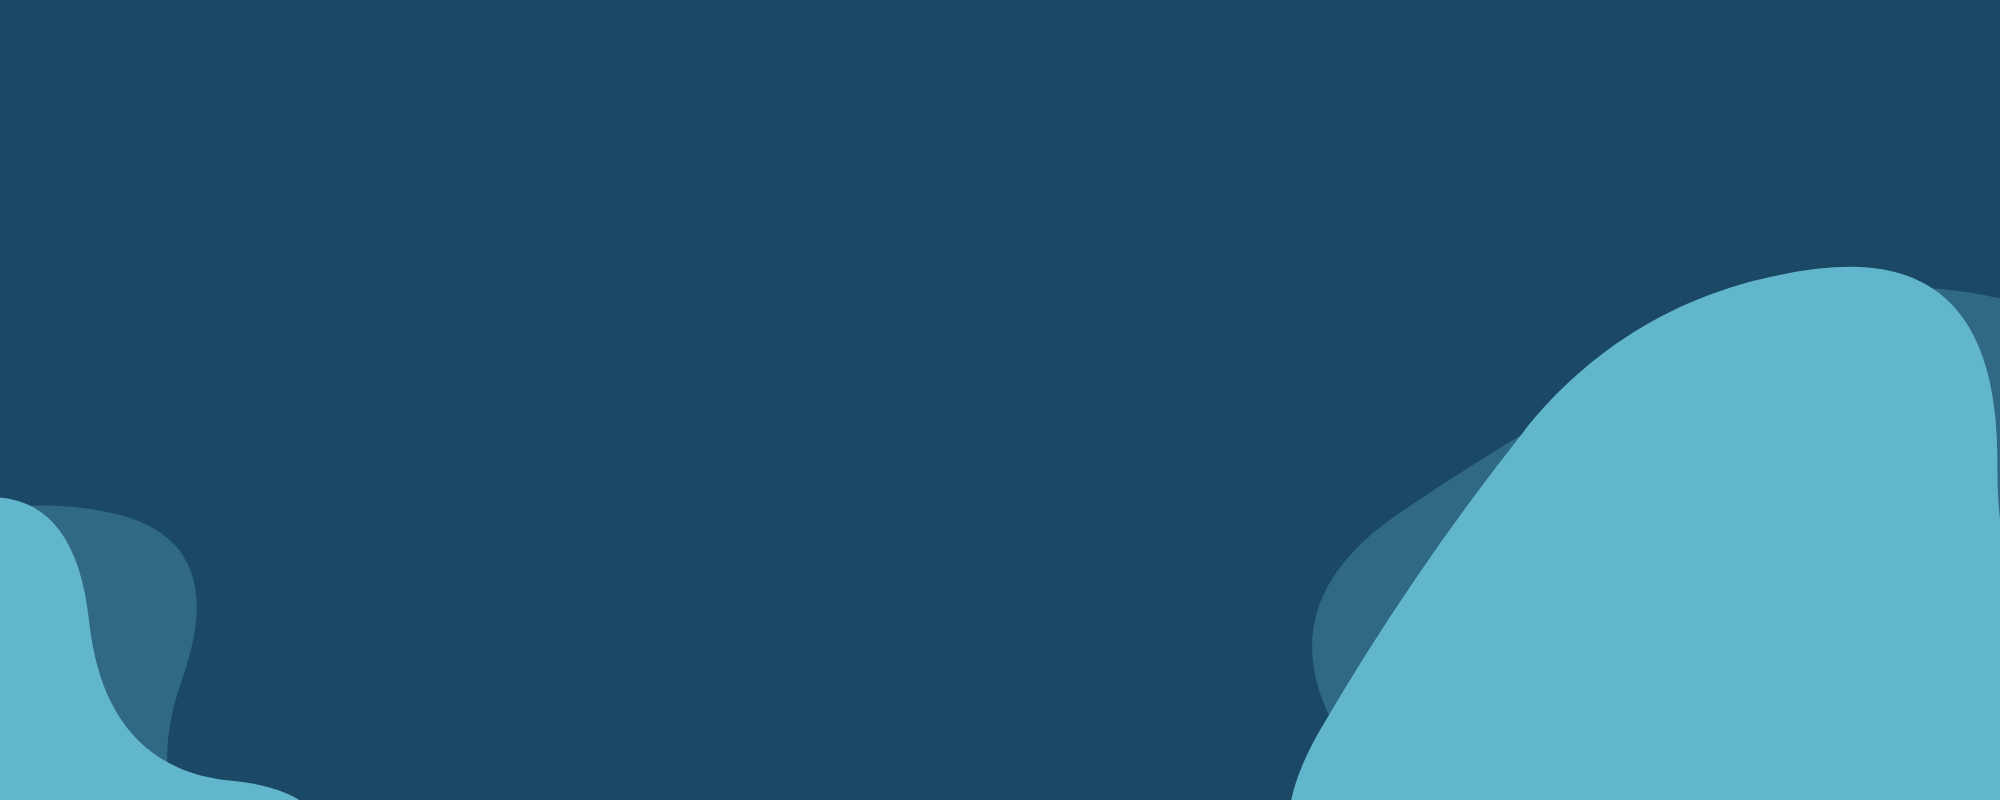
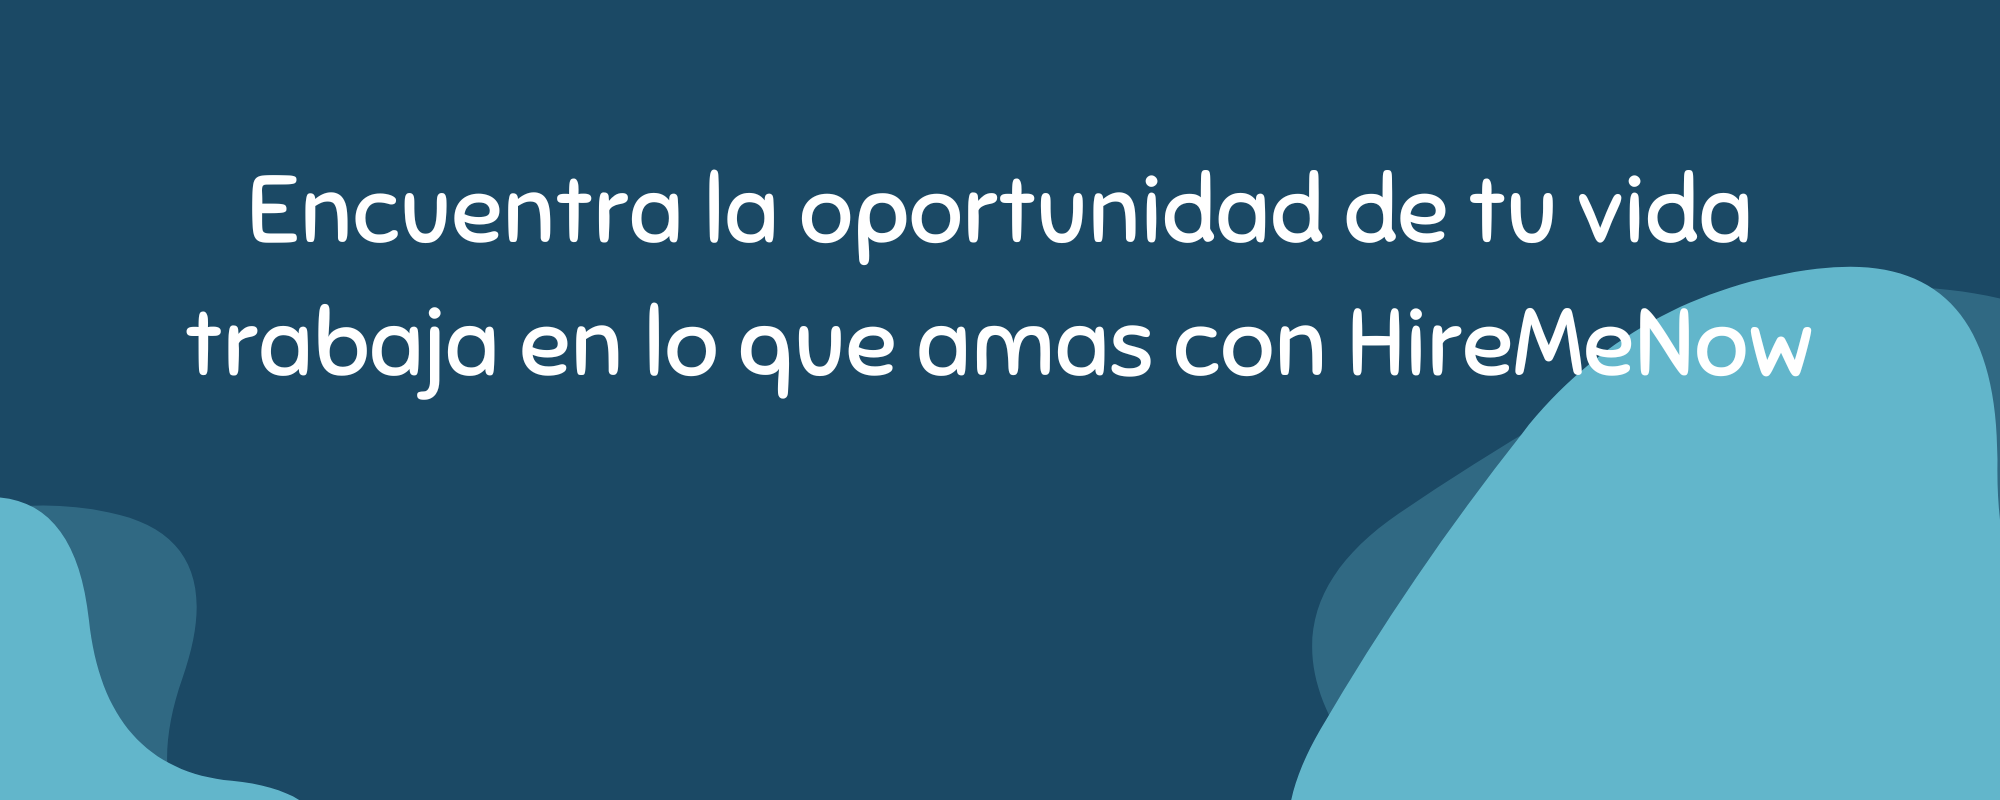
Changes

Changed region(s): [[0.124, 0.2188, 0.899, 0.3125], [0.093, 0.375, 0.93, 0.5]]

diff --git a/src/Views/Home.jsx b/src/Views/Home.jsx
@@ -17,7 +17,7 @@ function Home({ utils: { changeScreen, buttonActive } }) {
         <div>
             <div className="mx-0">
                 <img
-                    src="/home.png"
+                    src="/home2.png"
                     className="img-fluid"
                     style={{
                         width: "100vw",
@@ -31,7 +31,7 @@ function Home({ utils: { changeScreen, buttonActive } }) {
                 <div className="bg-white container-fluid border border-top-0">
                     <div className="row">
                         <div className="col-3">
-                            <img src="/logo.png" className="w-75 py-3" />
+                            <img src="/logo.png" className="w-75 py-3" style={{cursor:"pointer"}}/>
                         </div>
                         <div className="col-9 pt-3">
                             <div className="d-flex justify-content-end align-items-center">
@@ -75,8 +75,8 @@ function Home({ utils: { changeScreen, buttonActive } }) {
                 className="container card d-flex justify-content-center align-items-center p-4 border-0"
                 style={
                     searchBar == 0
-                        ? { marginTop: "25vh", backgroundColor: "#ffff" }
-                        : { marginTop: "25vh", backgroundColor: "#1B4965" }
+                        ? { marginTop: "38vh", backgroundColor: "#ffff" }
+                        : { marginTop: "38vh", backgroundColor: "#1B4965" }
                 }
             >
                 <div
@@ -85,11 +85,13 @@ function Home({ utils: { changeScreen, buttonActive } }) {
                         position: "absolute",
                         backgroundColor: "#f6f7f8",
                         paddingTop: "13rem",
-                        width:"90vw",
+                        width: "90vw",
                         zIndex: "-1",
-                        boxShadow:"0 9px 46px 0 9px 46px rgb(47 54 57 / 5%), 0 18px 38px rgb(47 54 57 / 6%), 0 11px 15px rgb(47 54 57 / 7%)"
+                        boxShadow:
+                            "0 9px 46px 0 9px 46px rgb(47 54 57 / 5%), 0 18px 38px rgb(47 54 57 / 6%), 0 11px 15px rgb(47 54 57 / 7%)",
                     }}
                 ></div>
+                
                 <button
                     className="btn btn-light border-0"
                     style={{
@@ -183,7 +185,7 @@ function Home({ utils: { changeScreen, buttonActive } }) {
 
             <div
                 className="pb-5"
-                style={{ marginTop: "40vh", backgroundColor: "#fff" }}
+                style={{ marginTop: "25vh", backgroundColor: "#fff" }}
             >
                 <hr />
                 <div className="mt-5 border-bottom mb-5 pb-5 ">

diff --git a/src/css/index.css b/src/css/index.css
@@ -4,6 +4,7 @@ html {
 
 body {
     background-color: #f6fbff;
+    overflow-x: hidden;
 }
 
 #announcements {
